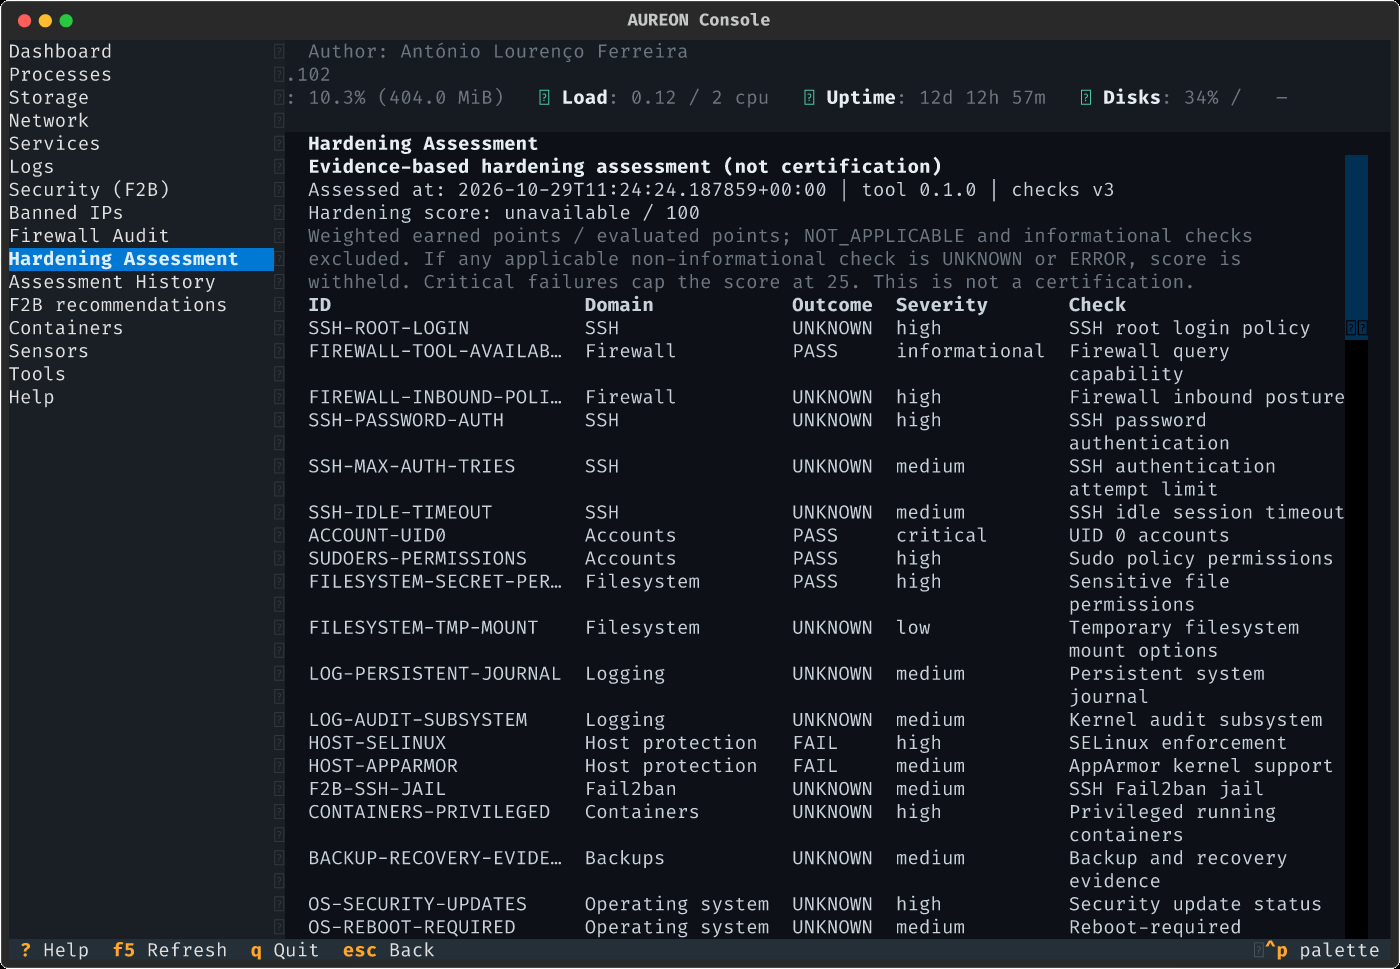
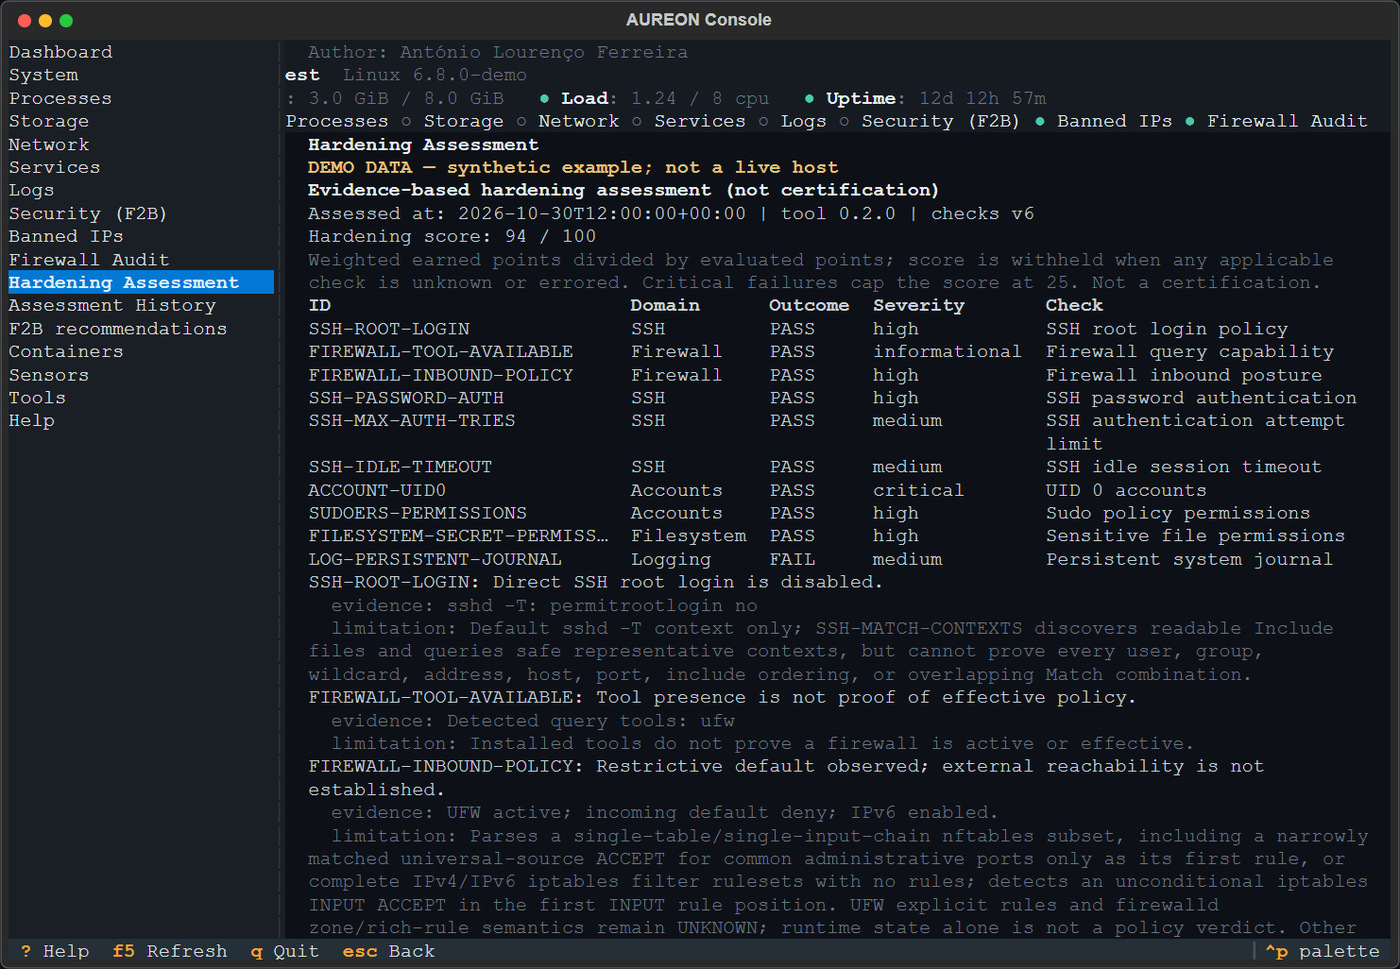
Refresh documentation screenshots with synthetic current TUI panels

Changed region(s): [[0.0, 0.0, 1.0, 1.0]]

diff --git a/scripts/capture_screenshots.py b/scripts/capture_screenshots.py
@@ -1,70 +1,197 @@
 #!/usr/bin/env python
-"""Capture real SVG screenshots of the console (Textual headless driver).
+"""Capture reproducible AUREON TUI panels with synthetic demonstration data.
 
 Usage:
     python scripts/capture_screenshots.py [output-dir]
 
-The images are produced from the *actual* running application against the
-*actual* machine, so they always reflect real behaviour. On a server without a
-TUI the generated SVGs show whatever data is really available - including
-"unavailable" states, which is exactly what should be documented.
+Writes Textual SVG captures for dashboard, firewall, hardening assessment,
+Banned IPs and Tools. No live host collectors or system commands are queried.
 """
 
 from __future__ import annotations
 
 import asyncio
-import os
 import sys
 import tempfile
+from datetime import datetime, timedelta, timezone
 from pathlib import Path
+from unittest.mock import patch
 
 sys.path.insert(0, str(Path(__file__).resolve().parents[1] / "src"))
 
+from aureon import __version__  # noqa: E402
+from aureon.collectors.firewall import FirewallEvidence, FirewallInfo  # noqa: E402
+from aureon.collectors.system import SystemInfo  # noqa: E402
+from aureon.collectors.tools import TOOLS, ToolStatus  # noqa: E402
 from aureon.config import Config  # noqa: E402
-from aureon.tui.app import AureonApp  # noqa: E402
+from aureon.hardening import Assessment, CHECK_DEFINITION_VERSION, CHECKS, CheckResult, Outcome, calculate_score  # noqa: E402
 from aureon.i18n import navigation  # noqa: E402
+from aureon.models import Health, Indicator  # noqa: E402
+from aureon.tui import panels  # noqa: E402
+from aureon.tui.app import AureonApp  # noqa: E402
+from aureon.util import Availability, Result  # noqa: E402
+from rich.console import Group  # noqa: E402
+from rich.text import Text  # noqa: E402
 from textual.widgets import ListView  # noqa: E402
 
-PANELS = ["dashboard", "firewall", "assessment"]
+PANELS = ("dashboard", "firewall", "assessment", "banned", "tools")
+DEMO_NOW = datetime(2026, 10, 30, 12, 0, tzinfo=timezone.utc)
+
+
+def _system_info() -> SystemInfo:
+    return SystemInfo(
+        hostname="audit-node-01.example.test",
+        os_name="Ubuntu",
+        os_version="24.04 LTS",
+        kernel="6.8.0-55-generic",
+        arch="x86_64",
+        uptime_seconds=12 * 86400 + 12 * 3600 + 57 * 60,
+        boot_time=DEMO_NOW - timedelta(days=12, hours=12, minutes=57),
+        cpu_count=8,
+        cpu_model="Example Virtual CPU",
+        cpu_percent=32.7,
+        load1=1.24,
+        load5=0.98,
+        load15=0.76,
+        mem_total=8 * 1024**3,
+        mem_available=5 * 1024**3,
+        swap_total=2 * 1024**3,
+        swap_free=2 * 1024**3,
+    )
+
+
+def _firewall_info() -> FirewallInfo:
+    return FirewallInfo(
+        detected=["ufw"],
+        evidence=[
+            FirewallEvidence("ufw", "version", Availability.OK, "ufw 0.36.2"),
+            FirewallEvidence(
+                "ufw", "status", Availability.OK,
+                "Status: active\nLogging: on (low)\nDefault: deny (incoming), allow (outgoing), disabled (routed)\n",
+            ),
+            FirewallEvidence(
+                "ufw", "numbered rules", Availability.OK,
+                "Status: active\n     To                         Action      From\n[ 1] 22/tcp                     LIMIT IN    198.51.100.0/24\n[ 2] 443/tcp                    ALLOW IN    Anywhere\n[ 3] 443/tcp (v6)               ALLOW IN    Anywhere (v6)\n",
+            ),
+            FirewallEvidence("ufw", "application profiles", Availability.EMPTY),
+        ],
+        warnings=[
+            "Synthetic demo output only; review live policy and upstream controls separately.",
+            "Local rules do not prove external Internet reachability.",
+        ],
+    )
+
+
+def _assessment() -> Assessment:
+    outcomes = {
+        "ACCOUNT-UID0": (Outcome.PASS, ["Synthetic passwd inventory: only root has UID 0."], "No additional UID 0 accounts were found in this sample."),
+        "SUDOERS-PERMISSIONS": (Outcome.PASS, ["Synthetic metadata: /etc/sudoers mode 0440."], "Sample sudo policy is not group/world writable."),
+        "HOST-SELINUX": (Outcome.FAIL, ["Synthetic state: SELinux is not enforcing."], "Review the host's applicable mandatory access-control policy."),
+        "OS-REBOOT-REQUIRED": (Outcome.PASS, ["Synthetic distro marker: no reboot required."], "No reboot-required marker is present in this sample."),
+        "TIME-SYNCHRONIZATION": (Outcome.PASS, ["Synthetic timedatectl result: synchronized."], "The sample reports system time synchronized."),
+    }
+    results = [
+        CheckResult(next(check for check in CHECKS if check.id == check_id), outcome, evidence, reason)
+        for check_id, (outcome, evidence, reason) in outcomes.items()
+    ]
+    score, domain_scores = calculate_score(results)
+    return Assessment(
+        assessed_at=DEMO_NOW.isoformat(),
+        tool_version=__version__,
+        definition_version=CHECK_DEFINITION_VERSION,
+        score=score,
+        domain_scores=domain_scores,
+        checks=results,
+    )
+
+
+def _banned_rows():
+    return [
+        {"ip": "203.0.113.24", "jail": "sshd", "last": DEMO_NOW - timedelta(minutes=18), "events": 4},
+        {"ip": "198.51.100.37", "jail": "sshd", "last": DEMO_NOW - timedelta(hours=2), "events": 2},
+        {"ip": "203.0.113.81", "jail": "nginx-auth", "last": DEMO_NOW - timedelta(hours=5), "events": 1},
+    ]
+
+
+def _tools():
+    versions = {
+        "btop": "1.4.2",
+        "htop": "3.3.0",
+        "sensors": "3.6.0",
+        "smartctl": "7.4",
+        "docker": "27.5.1",
+        "fail2ban-client": "1.1.0",
+        "lvs": "2.03.16",
+    }
+    showcase = {"btop", "htop", "sensors", "smartctl", "docker", "podman", "fail2ban-client", "lvs"}
+    return [
+        ToolStatus(spec, f"/usr/bin/{spec.binary}" if spec.name in versions else None,
+                   f"demo {versions[spec.name]}" if spec.name in versions else "")
+        for spec in TOOLS if spec.name in showcase
+    ]
+
+
+class ScreenshotApp(AureonApp):
+    """Use real application renderers but never contact the current host."""
+
+    def _probe_modules(self):
+        return {panel: "ok" for panel in PANELS}
+
+    def _indicators(self, _states=None):
+        return [
+            Indicator("cpu", "CPU", Health.OK, "32.7%", "synthetic demo"),
+            Indicator("mem", "Memory", Health.OK, "3.0 GiB / 8.0 GiB", "synthetic demo"),
+            Indicator("load", "Load", Health.OK, "1.24 / 8 cpu", "synthetic demo"),
+            Indicator("uptime", "Uptime", Health.OK, "12d 12h 57m", "synthetic demo"),
+        ]
+
+    def _build_panel(self, key: str):
+        language = self.config.language
+        if key == "dashboard":
+            content = panels.panel(Result.ok_result(_system_info(), "synthetic demo fixture"), panels.render_system, language=language)
+        elif key == "firewall":
+            content = panels.panel(Result.ok_result(_firewall_info(), "synthetic demo fixture"), panels.render_firewall, language=language)
+        elif key == "assessment":
+            content = panels.render_assessment(_assessment(), language)
+        elif key == "banned":
+            live = {
+                "sshd": [{"ip": "203.0.113.24", "when": "18 minutes ago"}],
+                "nginx-auth": [{"ip": "198.51.100.37", "when": "2 hours ago"}],
+            }
+            content = panels.render_banned_ips(_banned_rows(), live, language=language)
+        elif key == "tools":
+            content = panels.panel(Result.ok_result(_tools(), "synthetic demo fixture"), panels.render_tools, language=language)
+        else:
+            return super()._build_panel(key)
+        return panels.widget(Group(
+            Text("DEMO DATA — synthetic example; not a live host", style="bold #e5c07b"),
+            content,
+        ))
 
 
 async def capture(output: Path) -> None:
-    from collections import namedtuple
-
     with tempfile.TemporaryDirectory(prefix="aureon-screenshot-") as temporary:
         config = Config()
         config.state_dir = str(Path(temporary) / "state")
         config.config_dir = str(Path(temporary) / "config")
         config.ensure_dirs()
-        original_uname = os.uname
-        Uname = namedtuple("Uname", "sysname nodename release version machine")
-
-        def anonymized_uname():
-            observed = original_uname()
-            return Uname(observed.sysname, "linux-server", observed.release, observed.version, observed.machine)
-
-        # Screenshots are destined for repository documentation: keep the
-        # actual application and measurements, but never publish this runner's
-        # hostname or its persistent local state.
-        os.uname = anonymized_uname
-        try:
-            app = AureonApp(config)
+        app = ScreenshotApp(config)
+        # Avoid exposing even this runner's hostname or kernel in the chrome.
+        with patch("aureon.tui.app.socket.gethostname", return_value="audit-node-01.example.test"), \
+             patch("aureon.tui.app.platform.system", return_value="Linux"), \
+             patch("aureon.tui.app.platform.release", return_value="6.8.0-demo"):
             async with app.run_test(size=(120, 40)) as pilot:
-                await pilot.pause()
                 await pilot.pause()
                 nav = app.query_one("#aureon-nav", ListView)
                 for panel in PANELS:
                     app.current = panel
-                    nav.index = next(index for index, (key, _label) in enumerate(navigation(config.language)) if key == panel)
+                    nav.index = next(i for i, (key, _label) in enumerate(navigation(config.language)) if key == panel)
                     await pilot.pause()
-                    app.action_refresh()
-                    await asyncio.sleep(2.0)
+                    await app._render_current()
                     await pilot.pause()
                     target = output / f"{panel}.svg"
                     app.save_screenshot(str(target))
                     print(f"wrote {target}")
-        finally:
-            os.uname = original_uname
 
 
 def main() -> int:

diff --git a/README.md b/README.md
@@ -69,8 +69,10 @@ Hardening checks, limitations and assessment history: [`docs/HARDENING.md`](docs
 
 ## Screenshots
 
-Real screenshots captured from the running terminal UI. Host identity is
-anonymized. Click each image to open it at its full available size.
+Screenshots use the real terminal UI and renderers with **synthetic demo data**;
+they do not show a live host or real bans, firewall rules, or tool inventory.
+The reserved TEST-NET IP addresses are examples only. Click an image to open it
+at full size.
 
 ### Dashboard
 
@@ -82,7 +84,15 @@ anonymized. Click each image to open it at its full available size.
 
 ### Hardening assessment
 
-[![AUREON Console hardening assessment — check outcomes and evidence](assets/screenshots/assessment.jpg)](assets/screenshots/assessment.jpg)
+[![AUREON Console hardening assessment — synthetic check outcomes and evidence](assets/screenshots/assessment.jpg)](assets/screenshots/assessment.jpg)
+
+### Banned IPs
+
+[![AUREON Console Banned IPs — synthetic live and historical Fail2ban examples](assets/screenshots/banned.jpg)](assets/screenshots/banned.jpg)
+
+### Tools
+
+[![AUREON Console Tools — synthetic optional-tool inventory](assets/screenshots/tools.jpg)](assets/screenshots/tools.jpg)
 
 ## Headless use
 

diff --git a/scripts/README.md b/scripts/README.md
@@ -2,10 +2,10 @@
 
 ## capture_screenshots.py
 
-Captures the real Textual UI with a local headless driver and writes SVG files
-to the requested directory (default: `assets/screenshots`). Host identity is
-anonymized. SVG-to-PNG conversion is deliberately separate so the repository
-can publish real raster screenshots without adding a runtime dependency.
+Captures the real Textual UI with a local headless driver and synthetic,
+non-host-specific fixtures; no host collectors or system commands are queried.
+Writes SVG files to the requested directory (default: `assets/screenshots`).
+The repository README keeps raster JPEG exports of the same captures.
 
 ```bash
 python scripts/capture_screenshots.py [output-dir]
